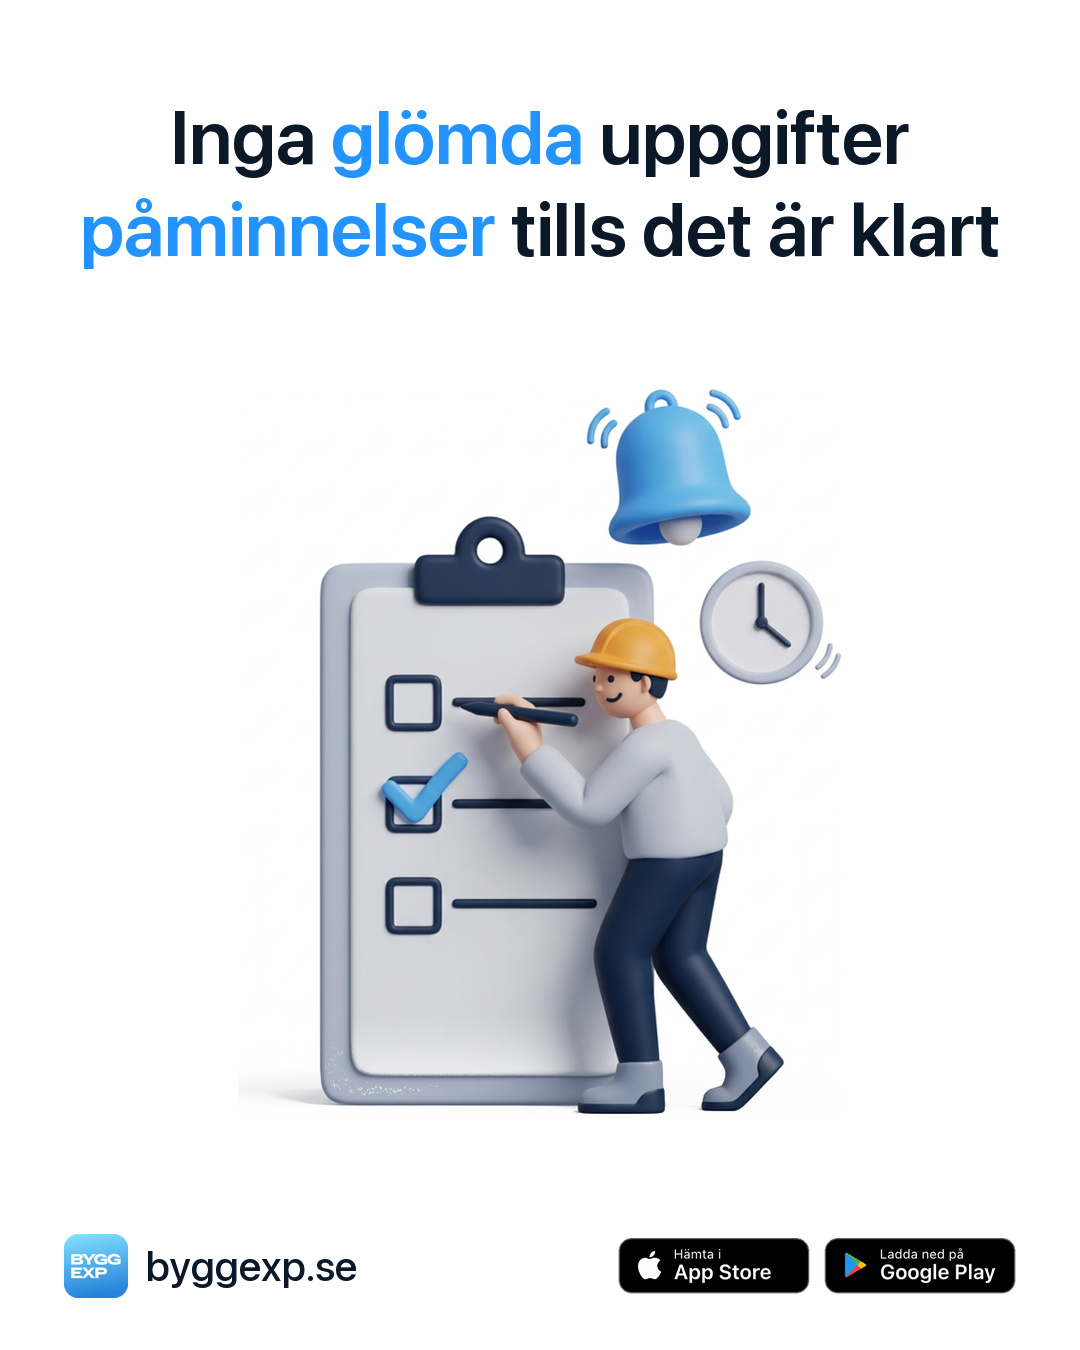
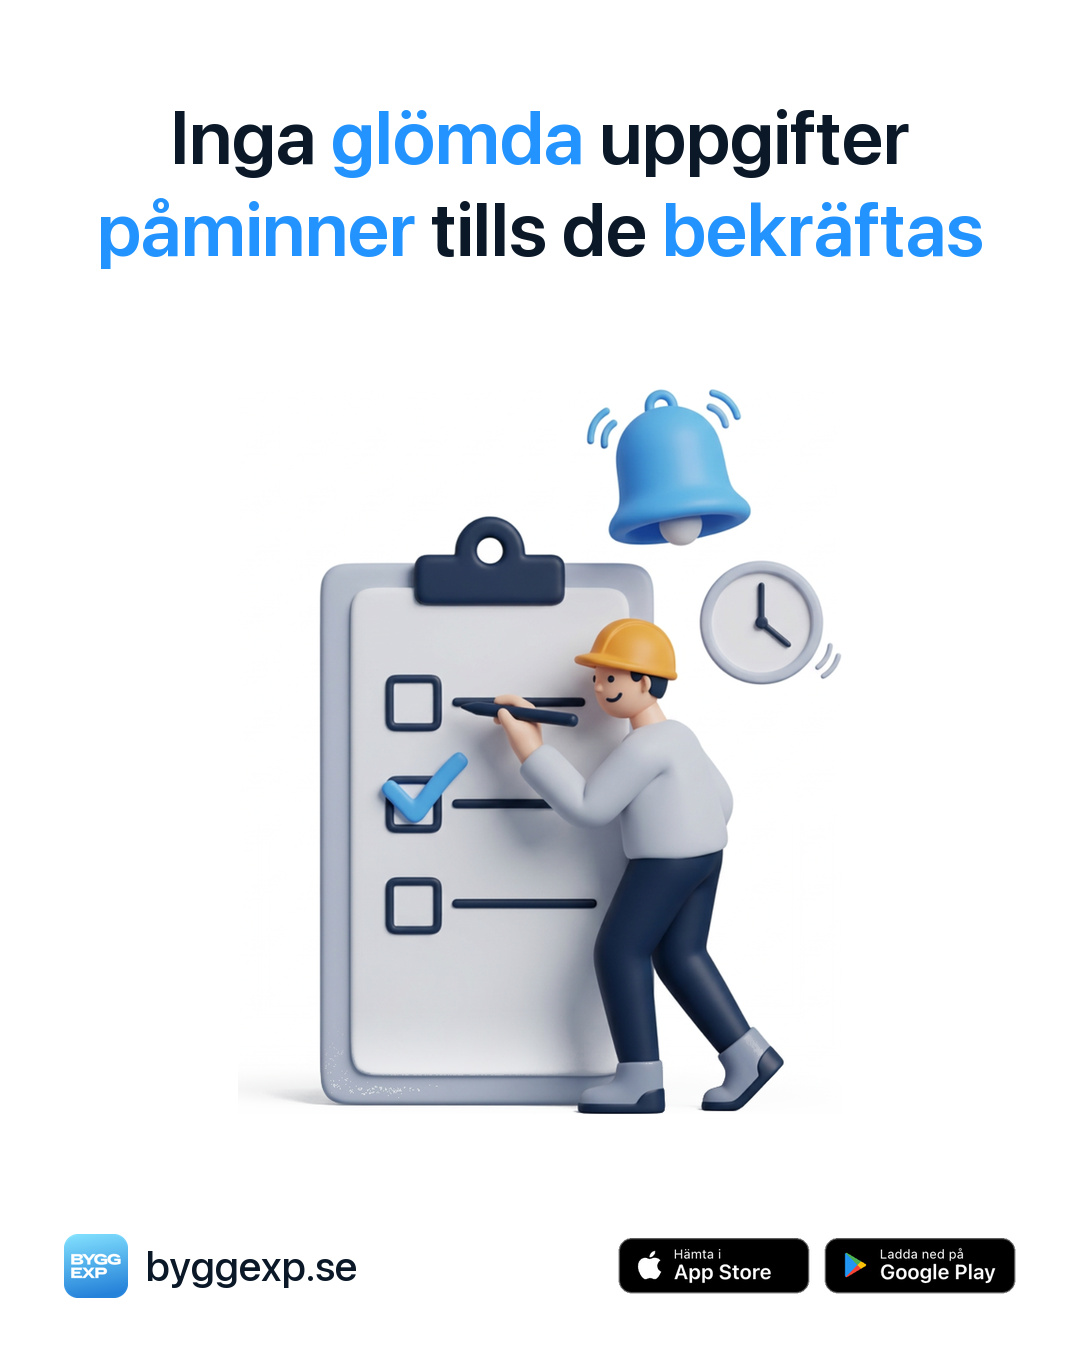
content(social): uppgifter post — reminders until the worker confirms

Changed region(s): [[0.0611, 0.1244, 0.9167, 0.2178]]

diff --git a/design-assets/social/posts/make_3d.py b/design-assets/social/posts/make_3d.py
@@ -24,7 +24,7 @@ GREEN, GREEN_BG = (0x45, 0xB3, 0x6B), (0xE5, 0xF6, 0xE8)  # --green, --green-1
 POSTS = [  # first 10, benefit first; no price on the picture (S26)
     ("01-tid", ("Tid med *GPS* eller *manuellt*", "*lön och faktura* utan lappar"), "tid-1.png",
      ("Stämpla in med GPS eller skriv in timmarna", "Timmarna hamnar på projektet", "Lön och faktura direkt från timmarna"), True),
-    ("s02-uppgifter", ("Inga *glömda* uppgifter", "*påminnelser* tills det är klart"), "uppgifter-3.png",
+    ("s02-uppgifter", ("Inga *glömda* uppgifter", "*påminner* tills de *bekräftas*"), "uppgifter-3.png",
      ("Klicka på Skapa uppgift", "Lägg till mottagare", "Sätt deadline och påminnelse"), True),
     ("s03-live", ("Vem är på *bygget nu*?", "se det *utan att ringa runt*"), "live-3.png",
      ("Arbetaren stämplar in i appen", "Statusen syns direkt på kontoret", "Frånvarande syns direkt"), True),

diff --git a/design-assets/social/posts/first10-3d.md b/design-assets/social/posts/first10-3d.md
@@ -199,16 +199,16 @@ https://byggexp.se/sv?utm_source=linkedin&utm_medium=social&utm_campaign=first10
 ## Karusell 02 · Uppgifter med automatisk uppföljning (serie enligt sajtens block «Så fungerar det»)
 
 FB:
-Inga glömda uppgifter – påminnelser tills det är klart.
+Inga glömda uppgifter – appen påminner tills de bekräftas.
 
-Skapa uppgiften på kontoret, välj vem som ska göra den och sätt deadline. Appen påminner tills uppgiften är markerad som klar.
+Skapa uppgiften på kontoret, välj vem som ska göra den och sätt deadline. Appen påminner automatiskt tills medarbetaren bekräftar att uppgiften är klar.
 
 14 dagar gratis, ingen bindningstid 👉 https://byggexp.se/sv?utm_source=facebook&utm_medium=social&utm_campaign=first10
 
 LinkedIn:
 Inga glömda uppgifter.
 
-Uppgifter kan tilldelas hela projektet eller utvalda medarbetare. Om uppgiften inte slutförs skickar appen påminnelser – tills den är klar.
+Uppgifter kan tilldelas hela projektet eller utvalda medarbetare. Om uppgiften inte slutförs skickar appen påminnelser – tills medarbetaren bekräftar att den är klar.
 
 14 dagar gratis, ingen bindningstid.
 https://byggexp.se/sv?utm_source=linkedin&utm_medium=social&utm_campaign=first10
